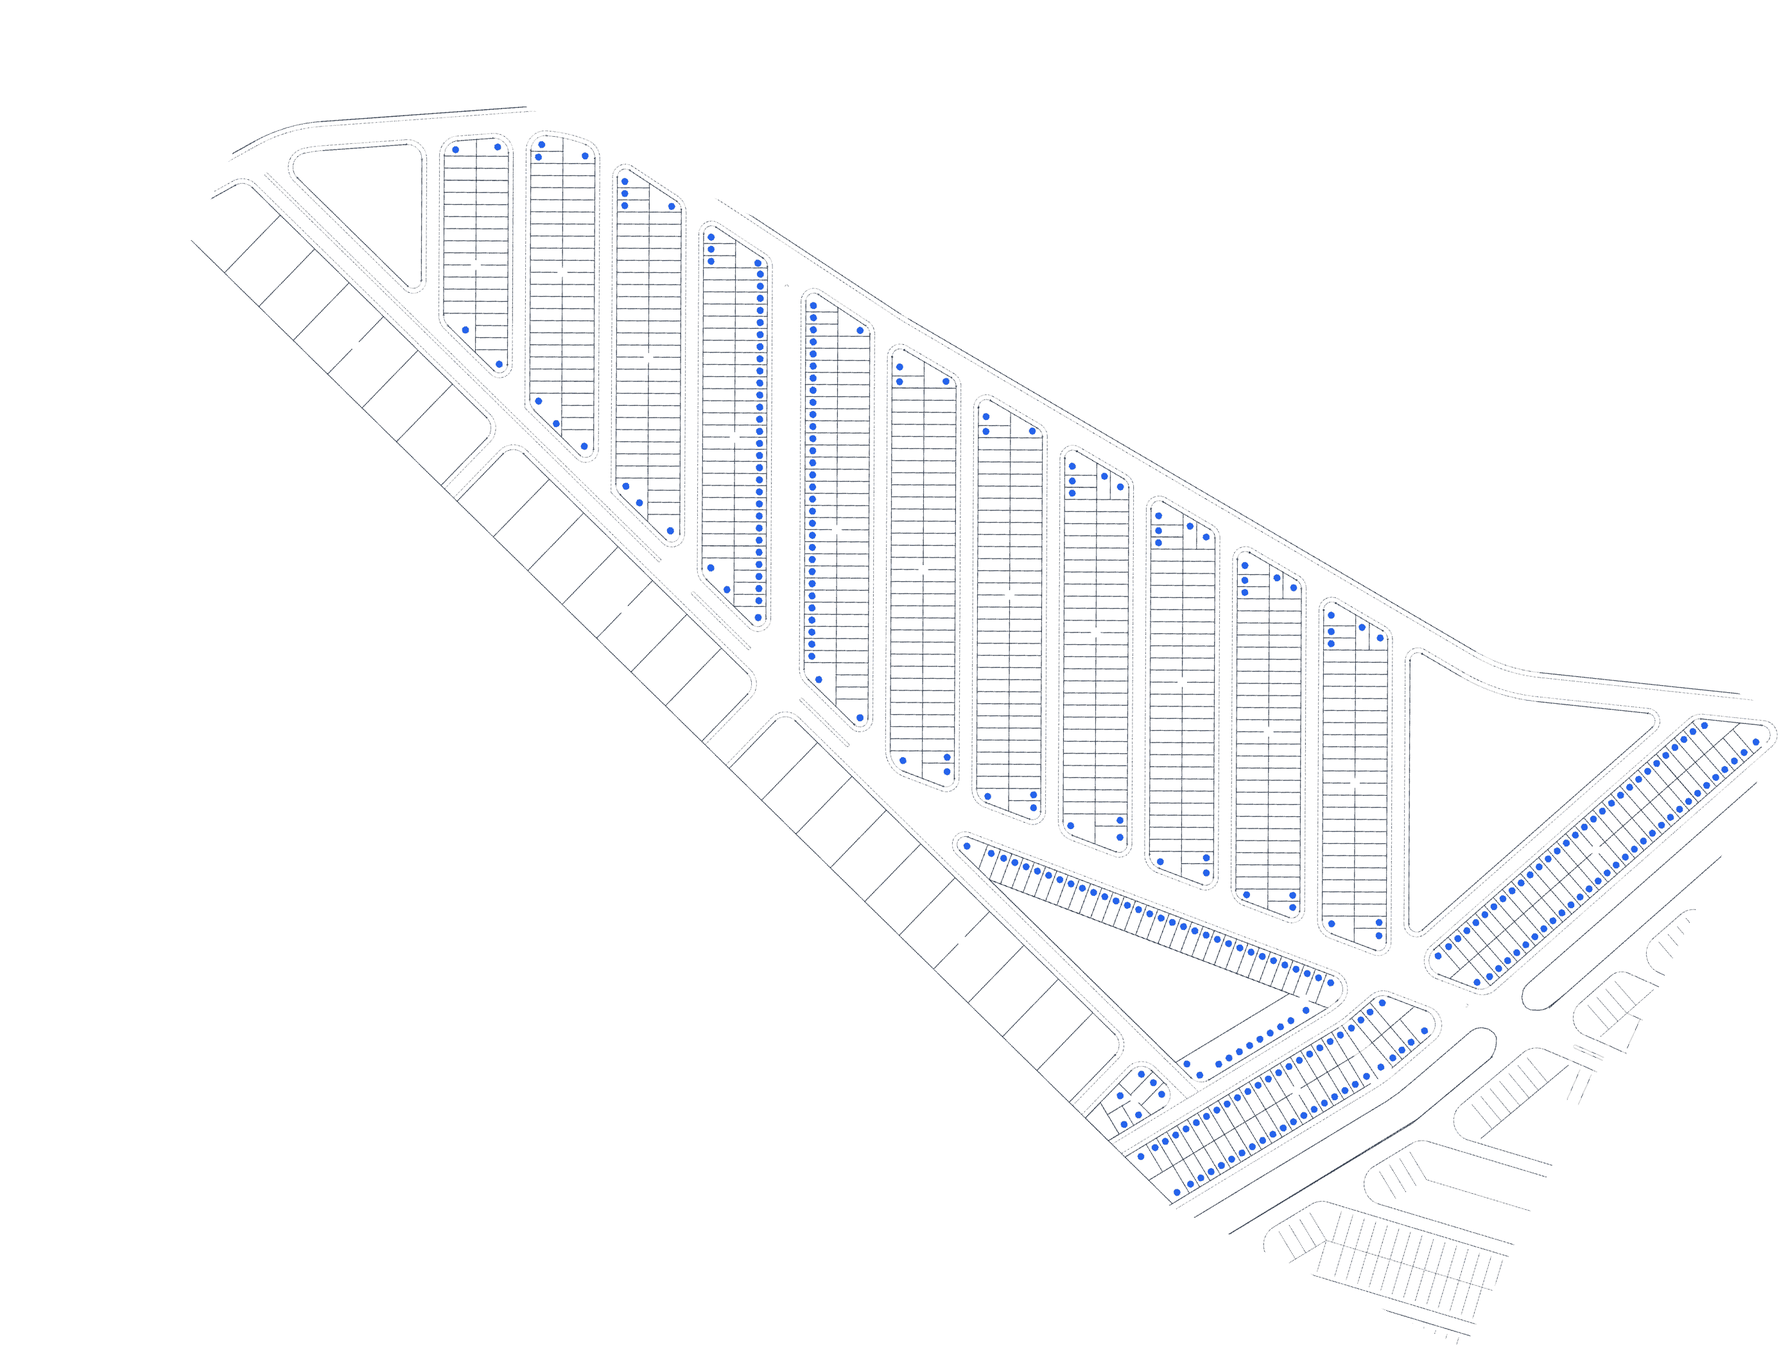
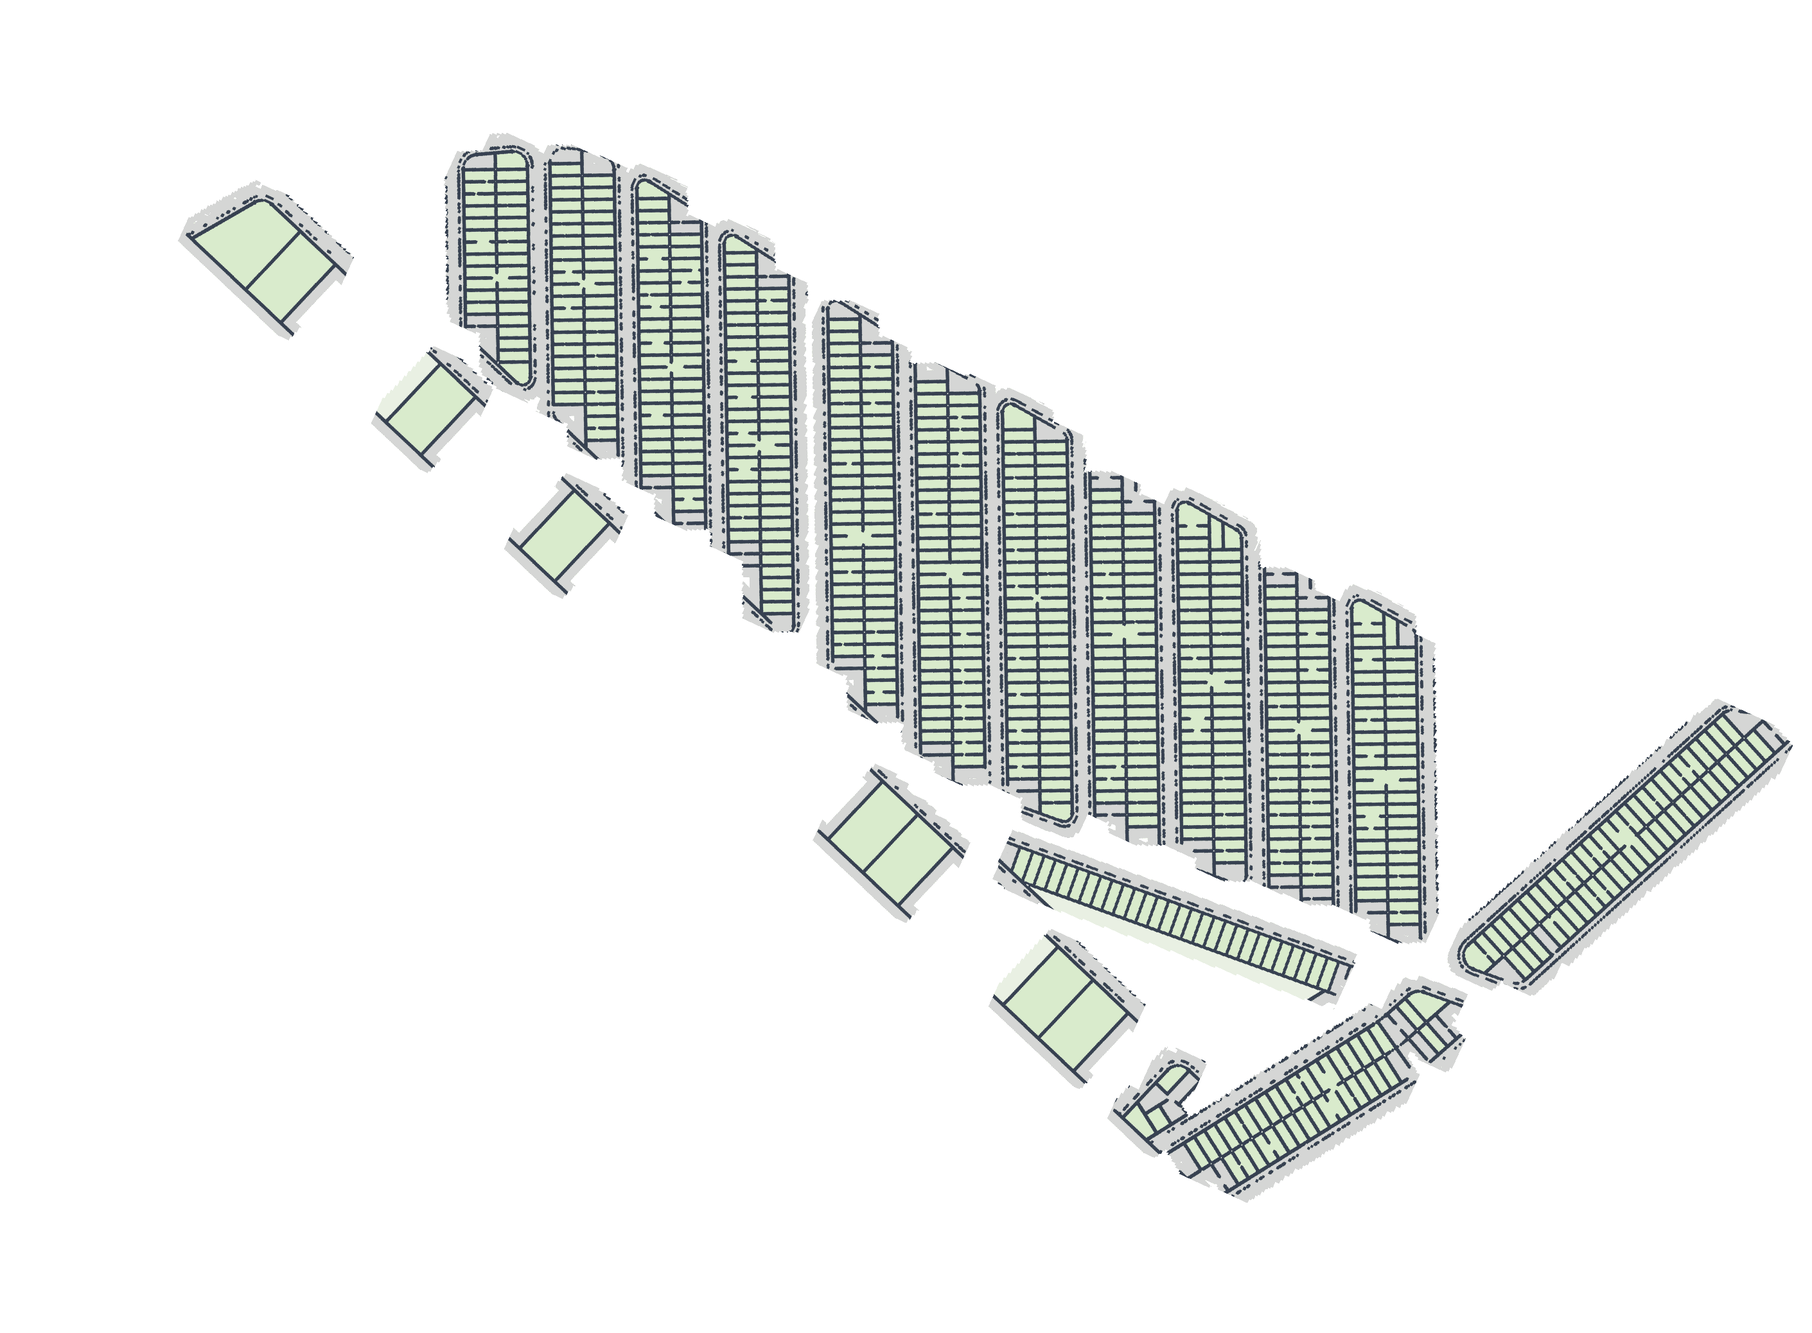
Mapa de lotes: desenho sólido (lotes verdes, ruas cinza) nos 14 loteamentos; Araras, Barnabé e Campo Bonito georreferenciados de novo (grade UTM + datum, OSM, vias nomeadas); ferramentas do desenho sólido

Changed region(s): [[0.0937, 0.0925, 0.9996, 0.9249], [0.8747, 0.4933, 0.9059, 0.5241], [0.781, 0.9249, 0.8122, 0.9557]]

diff --git a/mapa-lotes-indaiatuba/index.html b/mapa-lotes-indaiatuba/index.html
@@ -132,20 +132,20 @@
 // ll = [lat, lng] do pino (aproximado). poly = contorno do lote [[lat,lng],...] quando traçado (modo ?tracar=1).
 const TIPOS = { RESIDENCIAL:['Residencial','var(--res)','#2e7d5b'], MISTO:['Misto (comercial)','var(--mis)','#b8641b'], COMERCIAL:['Comercial','var(--com)','#1f5fa8'], AVENIDA:['Avenida','var(--ave)','#7a3fb5'], GLEBA:['Gleba','var(--gle)','#8a6d1f'] };
 const BAIRROS = [
-  { id:'sanmarino', nome:'Terras de San Marino', sub:'condomínio fechado em lançamento · a prazo em 60x', landing:'/terras-de-san-marino-indaiatuba/', cond:'juros de 1% a.m. na tabela PRICE · correção anual pelo IGP-M', overlay:{ url:'images/sanmarino.png', bounds:[[-23.102820726,-47.262921457],[-23.096220348,-47.254903395]] } },
-  { id:'alpnach', nome:'Alpnach Residence', sub:'condomínio fechado · 322 lotes · a prazo em 48x', landing:'/alpnach-indaiatuba/', cond:'entrada de 20% e saldo em 48x, conforme relatório Dominium de 04/09/2026', overlay:{ url:'images/alpnach.png', bounds:[[-23.084263640,-47.239591167],[-23.075924888,-47.230968063]] } },
-  { id:'montecarmelo', nome:'Residencial Monte Carmelo', sub:'loteamento aberto · 568 lotes · a prazo em até 96x', landing:'/monte-carmelo-indaiatuba/', cond:'entrada de 10% e saldo em 24, 48 ou 96x conforme o lote, relatório Dominium de 02/09/2026', overlay:{ url:'images/montecarmelo.png', bounds:[[-23.097556669,-47.290758180],[-23.088978703,-47.279876118]] } },
-  { id:'ravello', nome:'Residencial Ravello', sub:'condomínio fechado · 710 lotes · a prazo em 48x', landing:'/residencial-ravello-indaiatuba/', cond:'entrada de 20% e saldo em 48x, conforme relatório Dominium de 02/09/2026', overlay:{ url:'images/ravello.png', bounds:[[-23.084077694,-47.249446812],[-23.073393991,-47.234171390]] } },
-  { id:'diitalia', nome:'Jardim Di Italia', sub:'loteamento · 404 lotes · a prazo em 60x', landing:'/di-italia-indaiatuba/', cond:'entrada de 20% e saldo em 60x, conforme relatório Dominium de 04/09/2026', overlay:{ url:'images/diitalia.png', bounds:[[-23.103588740,-47.263368017],[-23.099479627,-47.259325927]] } },
-  { id:'canarios',   nome:'Vila dos Canários', overlay:{ url:'images/canarios.png', bounds:[[-23.108930882,-47.268409945],[-23.107110832,-47.266713807]] } },
-  { id:'zarah-safira', nome:'Parque Zarah — Safira (fase 1)', sub:'condomínio fechado Zarin · 420 lotes · entrega dez/2026', landing:'/parque-zarah-indaiatuba/', cond:'ato de 12% + 180 parcelas mensais, tabela Zarin de set/2026', overlay:{ url:'images/zarah-safira.png', bounds:[[-23.102958863,-47.268121502],[-23.098790343,-47.264306643]] } },
-  { id:'zarah-rubi', nome:'Parque Zarah — Rubi (fase 2)', sub:'condomínio fechado Zarin · 493 lotes · entrega dez/2028', landing:'/parque-zarah-indaiatuba/', cond:'ato de 12% + 180 parcelas mensais, tabela Zarin de set/2026', overlay:{ url:'images/zarah-rubi.png', bounds:[[-23.098533028,-47.265770497],[-23.094004107,-47.261732488]] } },
-  { id:'zarah-perola', nome:'Parque Zarah — Pérola (fase 3)', sub:'condomínio fechado Zarin · 657 lotes · entrega dez/2028', landing:'/parque-zarah-indaiatuba/', cond:'ato de 12% + 180 parcelas mensais, tabela Zarin de set/2026', overlay:{ url:'images/zarah-perola.png', bounds:[[-23.099420948,-47.270215062],[-23.094039981,-47.265319498]] } },
-  { id:'bemtevi',    nome:'Jardim Bem-Te-Vi', overlay:{ url:'images/bemtevi.png', bounds:[[-23.104063798,-47.270031922],[-23.100929535,-47.266787194]] } },
-  { id:'andorinhas', nome:'Jardim das Andorinhas', overlay:{ url:'images/andorinhas.png', bounds:[[-23.108548473,-47.271953653],[-23.104311666,-47.269346254]] } },
-  { id:'araras',     nome:'Jardim das Araras', overlay:{ url:'images/araras.png', bounds:[[-23.095652222,-47.288031882],[-23.088060187,-47.277154356]] } },
-  { id:'campobonito',nome:'Parque Campo Bonito', sub:'lotes 12x · glebas na Av. Clóvis Ferraz de Camargo', centro:[-23.09681,-47.27876], overlay:{ url:'images/campobonito.png', bounds:[[-23.100960705,-47.283599709],[-23.093097471,-47.270933576]] } },
-  { id:'barnabe',    nome:'Parque Barnabé (Smart City)', sub:'loteamento Smart City', overlay:{ url:'images/barnabe.png', bounds:[[-23.092289595,-47.284086001],[-23.084226018,-47.273046345]] } },
+  { id:'sanmarino', nome:'Terras de San Marino', sub:'condomínio fechado em lançamento · a prazo em 60x', landing:'/terras-de-san-marino-indaiatuba/', cond:'juros de 1% a.m. na tabela PRICE · correção anual pelo IGP-M', overlay:{ url:'images/sanmarino.png', bounds:[[-23.102199854,-47.261326372],[-23.097726916,-47.256612673]] } },
+  { id:'alpnach', nome:'Alpnach Residence', sub:'condomínio fechado · 322 lotes · a prazo em 48x', landing:'/alpnach-indaiatuba/', cond:'entrada de 20% e saldo em 48x, conforme relatório Dominium de 04/09/2026', overlay:{ url:'images/alpnach.png', bounds:[[-23.083610998,-47.238899336],[-23.075762995,-47.230555706]] } },
+  { id:'montecarmelo', nome:'Residencial Monte Carmelo', sub:'loteamento aberto · 568 lotes · a prazo em até 96x', landing:'/monte-carmelo-indaiatuba/', cond:'entrada de 10% e saldo em 24, 48 ou 96x conforme o lote, relatório Dominium de 02/09/2026', overlay:{ url:'images/montecarmelo.png', bounds:[[-23.097773938,-47.290932876],[-23.088498791,-47.279545380]] } },
+  { id:'ravello', nome:'Residencial Ravello', sub:'condomínio fechado · 710 lotes · a prazo em 48x', landing:'/residencial-ravello-indaiatuba/', cond:'entrada de 20% e saldo em 48x, conforme relatório Dominium de 02/09/2026', overlay:{ url:'images/ravello.png', bounds:[[-23.084102488,-47.249835979],[-23.070979304,-47.232579325]] } },
+  { id:'diitalia', nome:'Jardim Di Italia', sub:'loteamento · 404 lotes · a prazo em 60x', landing:'/di-italia-indaiatuba/', cond:'entrada de 20% e saldo em 60x, conforme relatório Dominium de 04/09/2026', overlay:{ url:'images/diitalia.png', bounds:[[-23.103678379,-47.263309419],[-23.099575729,-47.258509475]] } },
+  { id:'canarios',   nome:'Vila dos Canários', overlay:{ url:'images/canarios.png', bounds:[[-23.108966005,-47.267950927],[-23.107191835,-47.266595239]] } },
+  { id:'zarah-safira', nome:'Parque Zarah — Safira (fase 1)', sub:'condomínio fechado Zarin · 420 lotes · entrega dez/2026', landing:'/parque-zarah-indaiatuba/', cond:'ato de 12% + 180 parcelas mensais, tabela Zarin de set/2026', overlay:{ url:'images/zarah-safira.png', bounds:[[-23.103867177,-47.268118877],[-23.098195846,-47.263557482]] } },
+  { id:'zarah-rubi', nome:'Parque Zarah — Rubi (fase 2)', sub:'condomínio fechado Zarin · 493 lotes · entrega dez/2028', landing:'/parque-zarah-indaiatuba/', cond:'ato de 12% + 180 parcelas mensais, tabela Zarin de set/2026', overlay:{ url:'images/zarah-rubi.png', bounds:[[-23.098638783,-47.266014750],[-23.093968440,-47.260106153]] } },
+  { id:'zarah-perola', nome:'Parque Zarah — Pérola (fase 3)', sub:'condomínio fechado Zarin · 657 lotes · entrega dez/2028', landing:'/parque-zarah-indaiatuba/', cond:'ato de 12% + 180 parcelas mensais, tabela Zarin de set/2026', overlay:{ url:'images/zarah-perola.png', bounds:[[-23.099445703,-47.270087320],[-23.093936102,-47.265363011]] } },
+  { id:'bemtevi',    nome:'Jardim Bem-Te-Vi', overlay:{ url:'images/bemtevi.png', bounds:[[-23.104081502,-47.269804469],[-23.101092917,-47.266730672]] } },
+  { id:'andorinhas', nome:'Jardim das Andorinhas', overlay:{ url:'images/andorinhas.png', bounds:[[-23.108933536,-47.271905228],[-23.104357386,-47.269077513]] } },
+  { id:'araras',     nome:'Jardim das Araras', overlay:{ url:'images/araras.png', bounds:[[-23.095545258,-47.288286726],[-23.088084019,-47.277266836]] } },
+  { id:'campobonito',nome:'Parque Campo Bonito', sub:'lotes 12x · glebas na Av. Clóvis Ferraz de Camargo', centro:[-23.09681,-47.27876], overlay:{ url:'images/campobonito.png', bounds:[[-23.100143220,-47.283237886],[-23.092057285,-47.269997041]] } },
+  { id:'barnabe',    nome:'Parque Barnabé (Smart City)', sub:'loteamento Smart City', overlay:{ url:'images/barnabe.png', bounds:[[-23.092452167,-47.283916333],[-23.084265534,-47.273065721]] } },
 ];
 const LOTES = [
   // Terras de San Marino — espelho de vendas de 02/09/2026 (à vista R$ 1.650/m²; a prazo R$ 1.750/m², entrada 20%, saldo em 60x)
@@ -1716,33 +1716,33 @@ const LOTES = [
   { b:'andorinhas', q:'E', l:'11', m2:210.65, tipo:'MISTO',     pm2:1300,    vista:273845.00, entrada:41076.75,  parcela:3783.15,  ll:[-23.105343,-47.269617], soVista:true },
   { b:'andorinhas', q:'E', l:'12', m2:213.15, tipo:'MISTO',     pm2:1300,    vista:277095.00, entrada:41564.25,  parcela:3828.04,  ll:[-23.105413,-47.269610], soVista:true },
   // Jardim das Araras — planta original do loteamento georreferenciada (casamento com o OpenStreetMap/satélite); pinos reposicionados pela planta
-  { b:'araras',  q:'13', l:'30', m2:255.19, tipo:'COMERCIAL',   pm2:1500,    vista:382785.00, entrada:57417.75,  parcela:5288.14,  ll:[-23.092031879512735,-47.277637165103705], soVista:true },
-  { b:'araras',  q:'15', l:'1',  m2:217.43, tipo:'COMERCIAL',   pm2:1300,    vista:282659.00, entrada:null,      parcela:null,     soVista:true, ll:[-23.092827572065133,-47.28212880704587] },
-  { b:'araras',  q:'17', l:'1',  m2:1393.10,tipo:'MISTO',       pm2:1000,    vista:1393100.00,entrada:208965.00, parcela:19245.56, ll:[-23.092292087279034,-47.28339402741363], soVista:true },
-  { b:'araras',  q:'17', l:'2',  m2:1500,   tipo:'MISTO',       pm2:1000,    vista:1500000.00,entrada:225000.00, parcela:20722.37, ll:[-23.092404963240483,-47.283084470970856], soVista:true },
-  { b:'araras',  q:'17', l:'3',  m2:1500,   tipo:'MISTO',       pm2:1000,    vista:1500000.00,entrada:225000.00, parcela:20722.37, ll:[-23.092620901689635,-47.282865234790016], soVista:true },
-  { b:'araras',  q:'18', l:'6',  m2:1500,   tipo:'MISTO',       pm2:1000,    vista:1500000.00,entrada:225000.00, parcela:20722.37, ll:[-23.09177438855453,-47.28387821727417], soVista:true },
-  { b:'araras',  q:'18', l:'7',  m2:1564.31,tipo:'MISTO',       pm2:1000,    vista:1564310.00,entrada:234646.50, parcela:21610.81, ll:[-23.091908518395364,-47.2837003464271], soVista:true },
-  { b:'araras',  q:'19', l:'1',  m2:1924.50,tipo:'MISTO',       pm2:1000,    vista:1924500.00,entrada:288675.00, parcela:26586.80, ll:[-23.089384312135955,-47.28671111424065], soVista:true },
-  { b:'araras',  q:'19', l:'2',  m2:1500,   tipo:'MISTO',       pm2:1000,    vista:1500000.00,entrada:225000.00, parcela:20722.37, ll:[-23.08946123943392,-47.28648975058771], soVista:true },
-  { b:'araras',  q:'19', l:'3',  m2:1500,   tipo:'MISTO',       pm2:1000,    vista:1500000.00,entrada:225000.00, parcela:20722.37, ll:[-23.089664870319883,-47.28623641218193], soVista:true },
+  { b:'araras',  q:'13', l:'30', m2:255.19, tipo:'COMERCIAL',   pm2:1500,    vista:382785.00, entrada:57417.75,  parcela:5288.14,  ll:[-23.092012,-47.277713], soVista:true },
+  { b:'araras',  q:'15', l:'1',  m2:217.43, tipo:'COMERCIAL',   pm2:1300,    vista:282659.00, entrada:null,      parcela:null,     soVista:true, ll:[-23.092869,-47.282189] },
+  { b:'araras',  q:'17', l:'1',  m2:1393.10,tipo:'MISTO',       pm2:1000,    vista:1393100.00,entrada:208965.00, parcela:19245.56, ll:[-23.092354,-47.283465], soVista:true },
+  { b:'araras',  q:'17', l:'2',  m2:1500,   tipo:'MISTO',       pm2:1000,    vista:1500000.00,entrada:225000.00, parcela:20722.37, ll:[-23.092462,-47.283153], soVista:true },
+  { b:'araras',  q:'17', l:'3',  m2:1500,   tipo:'MISTO',       pm2:1000,    vista:1500000.00,entrada:225000.00, parcela:20722.37, ll:[-23.092674,-47.282930], soVista:true },
+  { b:'araras',  q:'18', l:'6',  m2:1500,   tipo:'MISTO',       pm2:1000,    vista:1500000.00,entrada:225000.00, parcela:20722.37, ll:[-23.091845,-47.283960], soVista:true },
+  { b:'araras',  q:'18', l:'7',  m2:1564.31,tipo:'MISTO',       pm2:1000,    vista:1564310.00,entrada:234646.50, parcela:21610.81, ll:[-23.091976,-47.283779], soVista:true },
+  { b:'araras',  q:'19', l:'1',  m2:1924.50,tipo:'MISTO',       pm2:1000,    vista:1924500.00,entrada:288675.00, parcela:26586.80, ll:[-23.089504,-47.286842], soVista:true },
+  { b:'araras',  q:'19', l:'2',  m2:1500,   tipo:'MISTO',       pm2:1000,    vista:1500000.00,entrada:225000.00, parcela:20722.37, ll:[-23.089578,-47.286619], soVista:true },
+  { b:'araras',  q:'19', l:'3',  m2:1500,   tipo:'MISTO',       pm2:1000,    vista:1500000.00,entrada:225000.00, parcela:20722.37, ll:[-23.089777,-47.286361], soVista:true },
   // Parque Campo Bonito — planta original do loteamento georreferenciada (casamento com o OpenStreetMap/satélite); pinos reposicionados pela planta
   { b:'campobonito', q:'A', l:'7C-1', m2:1675.73, tipo:'GLEBA', pm2:1300,    vista:2178449.00,entrada:326767.35, parcela:30095.09, nx:96, obs:'Gleba A 7C-1, próx. à Paróquia São João Paulo II (Av. Clóvis Ferraz de Camargo, 930, segundo a Arquidiocese de Campinas) — posição exata a confirmar.' },
   { b:'campobonito', q:'A', l:'7C-2', m2:1675.73, tipo:'GLEBA', pm2:1300,    vista:2178449.00,entrada:326767.35, parcela:30095.09, nx:96, obs:'Gleba A 7C-2, próx. à Paróquia São João Paulo II (Av. Clóvis Ferraz de Camargo, 930, segundo a Arquidiocese de Campinas) — posição exata a confirmar.' },
   { b:'campobonito', q:'A', l:'7-E2', m2:1578.60, tipo:'GLEBA', pm2:1300,    vista:2052167.00,entrada:307825.05, parcela:28350.51, nx:96, obs:'Gleba A 7-E2. próx. à Paróquia São João Paulo II (Av. Clóvis Ferraz de Camargo, 930, segundo a Arquidiocese de Campinas) — posição exata a confirmar.' },
-  { b:'campobonito', q:'27', l:'52', m2:153.50, tipo:'MISTO', pm2:1450,    vista:222575.00, entrada:33386.25,  parcela:16809.19, nx:12, ll:[-23.097112,-47.273049] },
-  { b:'campobonito', q:'27', l:'53', m2:153.50, tipo:'MISTO', pm2:1450,    vista:222575.00, entrada:33386.25,  parcela:16809.19, nx:12, ll:[-23.097085,-47.273118] },
-  { b:'campobonito', q:'27', l:'54', m2:153.50, tipo:'MISTO', pm2:1450,    vista:222575.00, entrada:33386.25,  parcela:16809.19, nx:12, ll:[-23.097058,-47.273187] },
-  { b:'campobonito', q:'28', l:'22', m2:151.20, tipo:'MISTO', pm2:1450,    vista:219240.00, entrada:32886.00,  parcela:16557.33, nx:12, ll:[-23.097995,-47.271779] },
+  { b:'campobonito', q:'27', l:'52', m2:153.50, tipo:'MISTO', pm2:1450,    vista:222575.00, entrada:33386.25,  parcela:16809.19, nx:12, ll:[-23.098228,-47.272753] },
+  { b:'campobonito', q:'27', l:'53', m2:153.50, tipo:'MISTO', pm2:1450,    vista:222575.00, entrada:33386.25,  parcela:16809.19, nx:12, ll:[-23.098172,-47.272797] },
+  { b:'campobonito', q:'27', l:'54', m2:153.50, tipo:'MISTO', pm2:1450,    vista:222575.00, entrada:33386.25,  parcela:16809.19, nx:12, ll:[-23.098117,-47.272842] },
+  { b:'campobonito', q:'28', l:'22', m2:151.20, tipo:'MISTO', pm2:1450,    vista:219240.00, entrada:32886.00,  parcela:16557.33, nx:12, ll:[-23.099586,-47.272150] },
   // Parque Barnabé (Smart City) — planta original do loteamento georreferenciada (OpenStreetMap/satélite); pinos reposicionados pela planta
-  { b:'barnabe', q:'32', l:'4',  m2:172.54, tipo:'AVENIDA',     pm2:1300,    vista:224302.00, entrada:null,      parcela:null,     soVista:true, ll:[-23.090161,-47.276040] },
-  { b:'barnabe', q:'11', l:'1',  m2:214.12, tipo:'COMERCIAL',   pm2:1300,    vista:278356.00, entrada:41753.40,  parcela:3845.46,  ll:[-23.086723,-47.277425], soVista:true },
-  { b:'barnabe', q:'33', l:'8',  m2:302.69, tipo:'MISTO',       pm2:1100,    vista:332959.00, entrada:49943.85,  parcela:4599.80,  ll:[-23.089774,-47.275057], soVista:true },
-  { b:'barnabe', q:'38', l:'22', m2:238.49, tipo:'COMERCIAL',   pm2:1250,    vista:298112.50, entrada:44716.88,  parcela:4118.40,  ll:[-23.090975,-47.273542], soVista:true },
-  { b:'barnabe', q:'44', l:'1',  m2:256.62, tipo:'COMERCIAL',   pm2:1250,    vista:320775.00, entrada:48116.25,  parcela:4431.48,  ll:[-23.089316,-47.281435], soVista:true },
-  { b:'barnabe', q:'47', l:'1',  m2:243.07, tipo:'COMERCIAL',   pm2:1250,    vista:303837.50, entrada:45575.63,  parcela:4197.49,  ll:[-23.089640,-47.279832], soVista:true },
-  { b:'barnabe', q:'54', l:'25', m2:328.47, tipo:'COMERCIAL',   pm2:1250,    vista:410587.50, entrada:61588.13,  parcela:5672.23,  ll:[-23.091364,-47.276272], soVista:true },
-  { b:'barnabe', q:'56', l:'17', m2:297.23, tipo:'RESIDENCIAL', pm2:1133.33, vista:336860.66, entrada:50529.10,  parcela:4653.70,  ll:[-23.085236,-47.282769], soVista:true },
+  { b:'barnabe', q:'32', l:'4',  m2:172.54, tipo:'AVENIDA',     pm2:1300,    vista:224302.00, entrada:null,      parcela:null,     soVista:true, ll:[-23.090257,-47.276082] },
+  { b:'barnabe', q:'11', l:'1',  m2:214.12, tipo:'COMERCIAL',   pm2:1300,    vista:278356.00, entrada:41753.40,  parcela:3845.46,  ll:[-23.086819,-47.277467], soVista:true },
+  { b:'barnabe', q:'33', l:'8',  m2:302.69, tipo:'MISTO',       pm2:1100,    vista:332959.00, entrada:49943.85,  parcela:4599.80,  ll:[-23.089870,-47.275099], soVista:true },
+  { b:'barnabe', q:'38', l:'22', m2:238.49, tipo:'COMERCIAL',   pm2:1250,    vista:298112.50, entrada:44716.88,  parcela:4118.40,  ll:[-23.091071,-47.273584], soVista:true },
+  { b:'barnabe', q:'44', l:'1',  m2:256.62, tipo:'COMERCIAL',   pm2:1250,    vista:320775.00, entrada:48116.25,  parcela:4431.48,  ll:[-23.089412,-47.281477], soVista:true },
+  { b:'barnabe', q:'47', l:'1',  m2:243.07, tipo:'COMERCIAL',   pm2:1250,    vista:303837.50, entrada:45575.63,  parcela:4197.49,  ll:[-23.089736,-47.279874], soVista:true },
+  { b:'barnabe', q:'54', l:'25', m2:328.47, tipo:'COMERCIAL',   pm2:1250,    vista:410587.50, entrada:61588.13,  parcela:5672.23,  ll:[-23.091460,-47.276314], soVista:true },
+  { b:'barnabe', q:'56', l:'17', m2:297.23, tipo:'RESIDENCIAL', pm2:1133.33, vista:336860.66, entrada:50529.10,  parcela:4653.70,  ll:[-23.085332,-47.282811], soVista:true },
 ];
 
 // ─── UTILIDADES ────────────────────────────────────────────────────────────────

diff --git a/ferramentas/mapa-lotes/serve-local.js b/ferramentas/mapa-lotes/serve-local.js
@@ -1,0 +1,12 @@
+// servidor estático mínimo para conferência visual (sem dependências)
+const http = require('http'), fs = require('fs'), path = require('path');
+const R = require('path').resolve('C:/Users/Usuario/Desktop/landing-page');
+const MIME = { '.html': 'text/html; charset=utf-8', '.js': 'text/javascript', '.css': 'text/css', '.png': 'image/png', '.jpg': 'image/jpeg', '.jpeg': 'image/jpeg', '.webp': 'image/webp', '.svg': 'image/svg+xml', '.xml': 'application/xml', '.txt': 'text/plain' };
+http.createServer((req, res) => {
+  let u = decodeURIComponent(req.url.split('?')[0]);
+  if (u.endsWith('/')) u += 'index.html';
+  const f = path.resolve(R, '.' + u);
+  if (!f.startsWith(R) || !fs.existsSync(f) || fs.statSync(f).isDirectory()) { res.writeHead(404); res.end('404'); return; }
+  res.writeHead(200, { 'Content-Type': MIME[path.extname(f).toLowerCase()] || 'application/octet-stream' });
+  fs.createReadStream(f).pipe(res);
+}).listen(8766, '127.0.0.1', () => console.log('http://127.0.0.1:8765/'));
